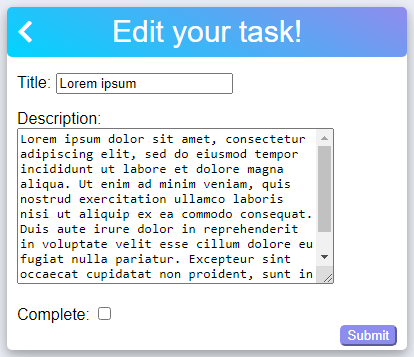
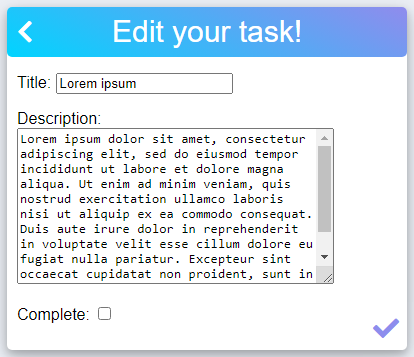
Resizable UI + fixes

Changed region(s): [[0.8116, 0.8936, 0.9855, 0.986]]

diff --git a/base/static/base_style.css b/base/static/base_style.css
@@ -1,99 +1,109 @@
+:root {
+    --main-font: Arial, serif;
+    --primary-color: rgba(0, 212, 255, 1);
+    --secondary-color: #8d8ded;
+    --background-color: #ebeff5;
+    --box-shadow: 0 4px 8px 0 rgba(0, 0, 0, 0.2), 0 6px 20px 0 rgba(0, 0, 0, 0.19);
+    --border-radius: 0.3125rem; /* equivalent to 5px */
+    --header-height: 4.0625rem; /* equivalent to 65px */
+}
 body {
-    font-family: Arial, serif;
+    font-family: var(--main-font);
 }
 html {
     margin: 0;
     padding: 0;
     height: 100%;
-    background: #ebeff5;
+    background: var(--background-color);
 }
 .container {
-    width: 400px;
-    margin-left: auto;
-    margin-right: auto;
+    width: 25rem; /* equivalent to 400px */
+    margin: auto;
     background: white;
     position: relative;
     justify-content: center;
     flex-direction: column;
     padding: 0;
-    box-shadow: 0 4px 8px 0 rgba(0, 0, 0, 0.2), 0 6px 20px 0 rgba(0, 0, 0, 0.19);
-    border-radius: 5px;
+    box-shadow: var(--box-shadow);
+    border-radius: var(--border-radius);
 }
 .header-bar {
     color: white;
     margin-top: 0;
-    padding-top: 10px;
-    height: 65px;
-    background: linear-gradient(206deg, rgba(141,141,237,1) 2%, rgba(0,212,255,1) 100%);
-    border-radius: 5px;
+    padding-top: 0.625rem; /* equivalent to 10px */
+    height: var(--header-height);
+    background: linear-gradient(206deg, rgba(141, 141, 237, 1) 2%, var(--primary-color) 100%);
+    border-radius: var(--border-radius);
 }
 h1 {
-    font-size: 30px;
-    margin: 0 0 10px 10px;
+    font-size: 1.875rem; /* equivalent to 30px */
+    margin: 0 0 0.625rem 0.625rem; /* equivalent to 0 0 10px 10px */
     font-weight: normal;
 }
 h2 {
-    font-size: 16px;
-    display:block;
-    margin-top: -2px;
-    margin-left: 10px;
+    font-size: 1rem; /* equivalent to 16px */
+    display: block;
+    margin-top: -0.125rem; /* equivalent to -2px */
+    margin-left: 0.625rem; /* equivalent to 10px */
     font-weight: normal;
 }
 h3 {
-    padding-bottom: 15px;
+    padding-bottom: 0.9375rem; /* equivalent to 15px */
     text-align: center;
 }
 h4 {
     font-weight: normal;
-    padding-top: 8px;
-    font-size: 30px;
+    padding-top: 0.5rem; /* equivalent to 8px */
+    font-size: 1.875rem; /* equivalent to 30px */
     text-align: center;
 }
 .logout {
     position: absolute;
-    top: 8px;
-    right: 8px;
+    top: 0.4rem; /* equivalent to 6.4px */
+    right: 0.4rem; /* equivalent to 6.4px */
     text-decoration: none;
     color: white;
 }
 .search {
     position: relative;
-    top: 4px;
-    right: -8px;
-    height: 20px;
-    border-width: 1px;
-    border-radius: 5px;
+    top: 0.15rem; /* equivalent to 2.4px */
+    right: -0.5rem; /* equivalent to -8px */
+    height: 1.25rem; /* equivalent to 20px */
+    border-width: 0.0625rem; /* equivalent to 1px */
+    border-radius: var(--border-radius);
 }
 .line {
     position: relative;
-    top: 8px;
-    height: 3px;
-    background: linear-gradient(206deg, rgba(141,141,237,1) 2%, rgba(0,212,255,1) 100%);
+    top: 0.125rem; /* equivalent to 2px */
+    height: 3px; /* equivalent to 3px */
+    background: linear-gradient(206deg, rgba(141, 141, 237, 1) 2%, var(--primary-color) 100%);
     border-width: 0;
-    margin-bottom: 32px;
+    margin-bottom: 1.7rem; /* equivalent to 32px */
 }
 .line1 {
     display: block;
     position: relative;
-    top: -21px;
-    left: 25px;
-    height: 3px;
-    background: linear-gradient(206deg, rgba(141,141,237,1) 2%, rgba(0,212,255,1) 100%);
-    width: 350px;
+    top: -1.3125rem; /* equivalent to -21px */
+    left: 1.5625rem; /* equivalent to 25px */
+    height: 0.1875rem; /* equivalent to 3px */
+    background: linear-gradient(206deg, rgba(141, 141, 237, 1) 2%, var(--primary-color) 100%);
+    width: 21.875rem; /* equivalent to 350px */
     border-width: 0;
-    margin-bottom: 3px;
+    margin-bottom: 0.1875rem; /* equivalent to 3px */
 }
 .fa-plus {
-    height: 26px;
+    height: 1.625rem; /* equivalent to 26px */
     position: absolute;
-    top: 84px;
-    right: 10px;
+    top: calc(var(--header-height) + 1rem); /* equivalent to 80px */
+    right: 0.625rem; /* equivalent to 10px */
     text-decoration: none;
-    color: #8d8ded;
-    font-size: 30px;
+    color: var(--secondary-color);
+    font-size: 1.875rem; / equivalent to 30px */
 }
 .fa-search {
-    font-size: 26px;
+    position: relative;
+    top: -0.15rem; /* equivalent to -2.4px */
+    font-size: 1.625rem; /* equivalent to 26px */
     color: #5aa7f3;
     border-width: 0;
     background-color: white;
@@ -101,84 +111,95 @@ h4 {
 }
 .fa-pen {
     position: relative;
-    top: -36px;
-    left: 330px;
-    font-size: 25px;
-    color: #7898f0;
+    top: -2.25rem; /* equivalent to -36px */
+    left: 20.625rem; /* equivalent to 330px */
+    font-size: 1.5625rem; /* equivalent to 25px */
+    color: var(--secondary-color);
     display: inline-block;
     text-decoration: none;
     margin: 0;
 }
 .fa-trash {
     position: relative;
-    bottom: 36px;
-    left: 338px;
-    font-size: 25px;
-    color: #8d8ded;
+    bottom: 2.25rem; /* equivalent to 36px */
+    left: 21.125rem; /* equivalent to 338px */
+    font-size: 1.5625rem; /* equivalent to 25px */
+    color: var(--secondary-color);
     text-decoration: none;
     margin: 0;
 }
 .fa-chevron-left {
     position: absolute;
-    top: 13px;
-    left: 10px;
+    top: 0.8125rem; /* equivalent to 13px */
+    left: 0.625rem; /* equivalent to 10px */
     text-decoration: none;
-    font-size: 25px;
+    font-size: 1.5625rem; /* equivalent to 25px */
     color: white;
 }
+.fa-check {
+    position: absolute;
+    bottom: 0.5rem;
+    right: 0.5rem;
+    color: #8d8ded;
+}
 .btn {
-    padding: 1px;
+    padding: 0.0625rem; /* equivalent to 1px */
     position: relative;
-    top: 10px;
-    left: 10px;
-    height: 26px;
-    width: 26px;
+    top: 0.625rem; /* equivalent to 10px */
+    left: 0.625rem; /* equivalent to 10px */
+    height: 1.625rem; /* equivalent to 26px */
+    width: 1.625rem; /* equivalent to 26px */
     border-width: 0;
     background: white;
 }
 .task {
-    width: 380px;
-    height: 60px;
+    width: 23.75rem; /* equivalent to 380px */
+    height: 3.75rem; /* equivalent to 60px */
     text-align: left;
-    padding-top: 7px;
-    padding-left: 18px;
-    font-size: 28px;
+    padding-top: 0.4375rem; /* equivalent to 7px */
+    padding-left: 1.125rem; /* equivalent to 18px */
+    font-size: 1.75rem; /* equivalent to 28px */
     background: white;
     cursor: pointer;
     border-width: 0;
-    margin-top: -30px;
-    margin-bottom: -4px;
-    padding-right: 60px;
+    margin-top: -1.875rem; /* equivalent to -30px */
+    margin-bottom: -0.25rem; /* equivalent to -4px */
+    padding-right: 3.75rem; /* equivalent to 60px */
     color: black;
     white-space: nowrap;
     overflow: hidden;
     text-overflow: ellipsis;
 }
+textarea {
+    resize: none;
+}
 .submit_btn {
-    position: absolute;
-    border-color: #8d8ded;
-    border-radius: 5px;
-    right: 10px;
-    bottom: 4px;
-    color: white;
-    background: #8d8ded;
+    border: none;
+    background: transparent;
+    cursor: pointer;
+    font-size: 26px;
+    color: #5aa7f3;
+    padding: 0;
+    margin: 0;
+    width: auto;
+    height: auto;
 }
 
 @media (max-width: 1000px) {
-    .container{
+    .container {
         margin-top: 0;
-        height:90%;
+        height: 90%;
     }
     h1 {
-        margin: 0 0 5px 8px;
+        margin: 0 0 0.3125rem 0.5rem; /* equivalent to 0 0 5px 8px */
     }
     h2 {
-        margin-left: 8px;
+        margin-left: 0.5rem; /* equivalent to 8px */
     }
     h3 {
         padding: 0;
     }
     h4 {
-        padding-top: 7px;
+        padding-top: 0.4375rem; /* equivalent to 7px */
     }
 }

diff --git a/base/templates/base/task_delete.html b/base/templates/base/task_delete.html
@@ -9,7 +9,10 @@
     {% csrf_token %}
     <small style="font-size: 18px; display: block; padding-top: 5px">Are you sure you want to delete this task?</small>
     <br>
-    <input type="submit" value="Submit" class="submit_btn">
+    <button type="submit" class="submit_btn">
+      <i class="fas fa-check"></i>
+    </button>
+
 </form>
 </div>
 {% endblock content %}

diff --git a/base/templates/base/task_form.html b/base/templates/base/task_form.html
@@ -8,7 +8,9 @@
     <form method="POST" action="">
         {%csrf_token%}
         {{ form.as_p }}
-        <input type="submit" value="Submit" class="submit_btn">
+        <button type="submit" class="submit_btn">
+          <i class="fas fa-check"></i>
+        </button>
     </form>
 </div>
 {% endblock content %}

diff --git a/base/templates/base/task_update.html b/base/templates/base/task_update.html
@@ -8,7 +8,9 @@
     <form method="POST" action="">
         {%csrf_token%}
         {{ form.as_p }}
-        <input type="submit" value="Submit" class="submit_btn">
+        <button type="submit" class="submit_btn">
+          <i class="fas fa-check"></i>
+        </button>
     </form>
 </div>
 {% endblock content %}

diff --git a/base/templates/base/login.html b/base/templates/base/login.html
@@ -16,7 +16,7 @@
 		<div class="d-flex justify-content-center h-100">
 			<div class="user_card">
 				<div class="d-flex justify-content-center">
-					<h3 id="form-title">LOGIN</h3>
+					<h3 id="form-title">TodoApp</h3>
 				</div>
 
 				<div class="d-flex justify-content-center form_container">

diff --git a/base/migrations/0001_initial.py b/base/migrations/0001_initial.py
@@ -1,4 +1,4 @@
-# Generated by Django 4.1.2 on 2022-12-28 19:51
+# Generated by Django 4.1.7 on 2023-03-22 09:20
 
 from django.conf import settings
 from django.db import migrations, models
@@ -22,7 +22,7 @@ class Migration(migrations.Migration):
                 ('description', models.TextField(blank=True, null=True)),
                 ('complete', models.BooleanField(default=False)),
                 ('create', models.DateTimeField(auto_now_add=True)),
-                ('User', models.ForeignKey(blank=True, null=True, on_delete=django.db.models.deletion.CASCADE, to=settings.AUTH_USER_MODEL)),
+                ('user', models.ForeignKey(blank=True, null=True, on_delete=django.db.models.deletion.CASCADE, to=settings.AUTH_USER_MODEL)),
             ],
             options={
                 'ordering': ['complete'],

diff --git a/TodoApp/settings.py b/TodoApp/settings.py
@@ -11,6 +11,7 @@ https://docs.djangoproject.com/en/2.1/ref/settings/
 """
 
 import os
+from decouple import config
 
 # Build paths inside the project like this: os.path.join(BASE_DIR, ...)
 BASE_DIR = os.path.dirname(os.path.dirname(os.path.abspath(__file__)))
